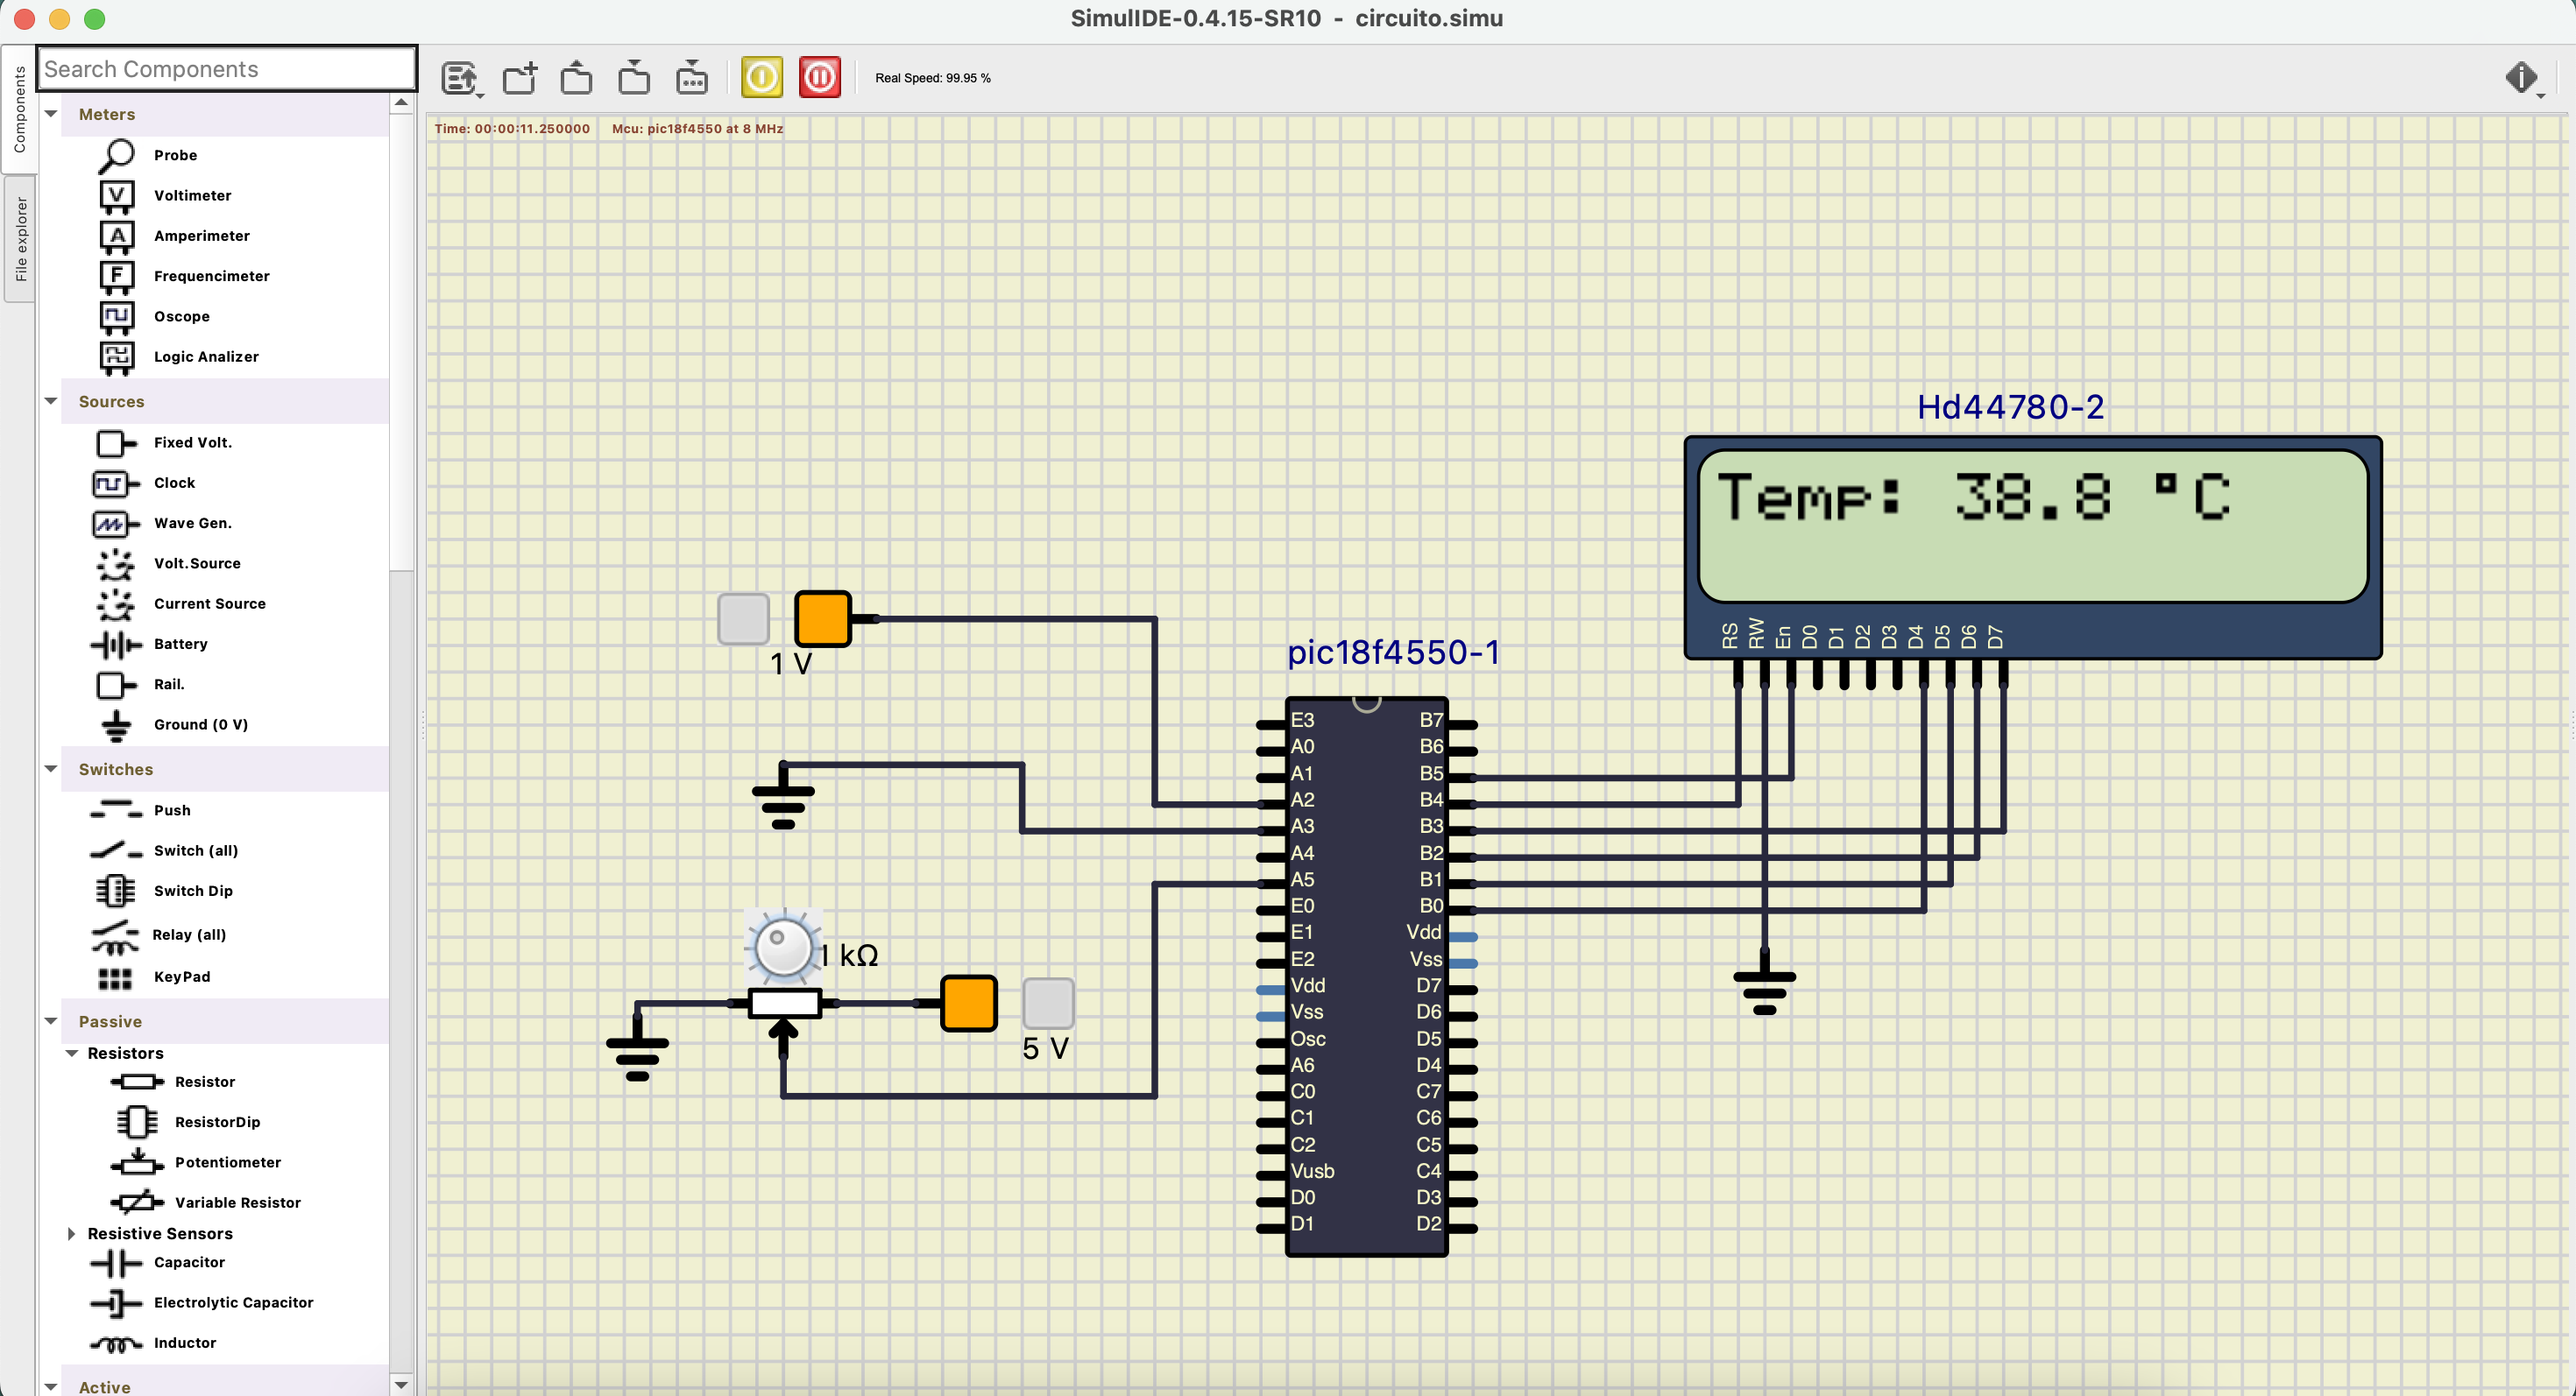
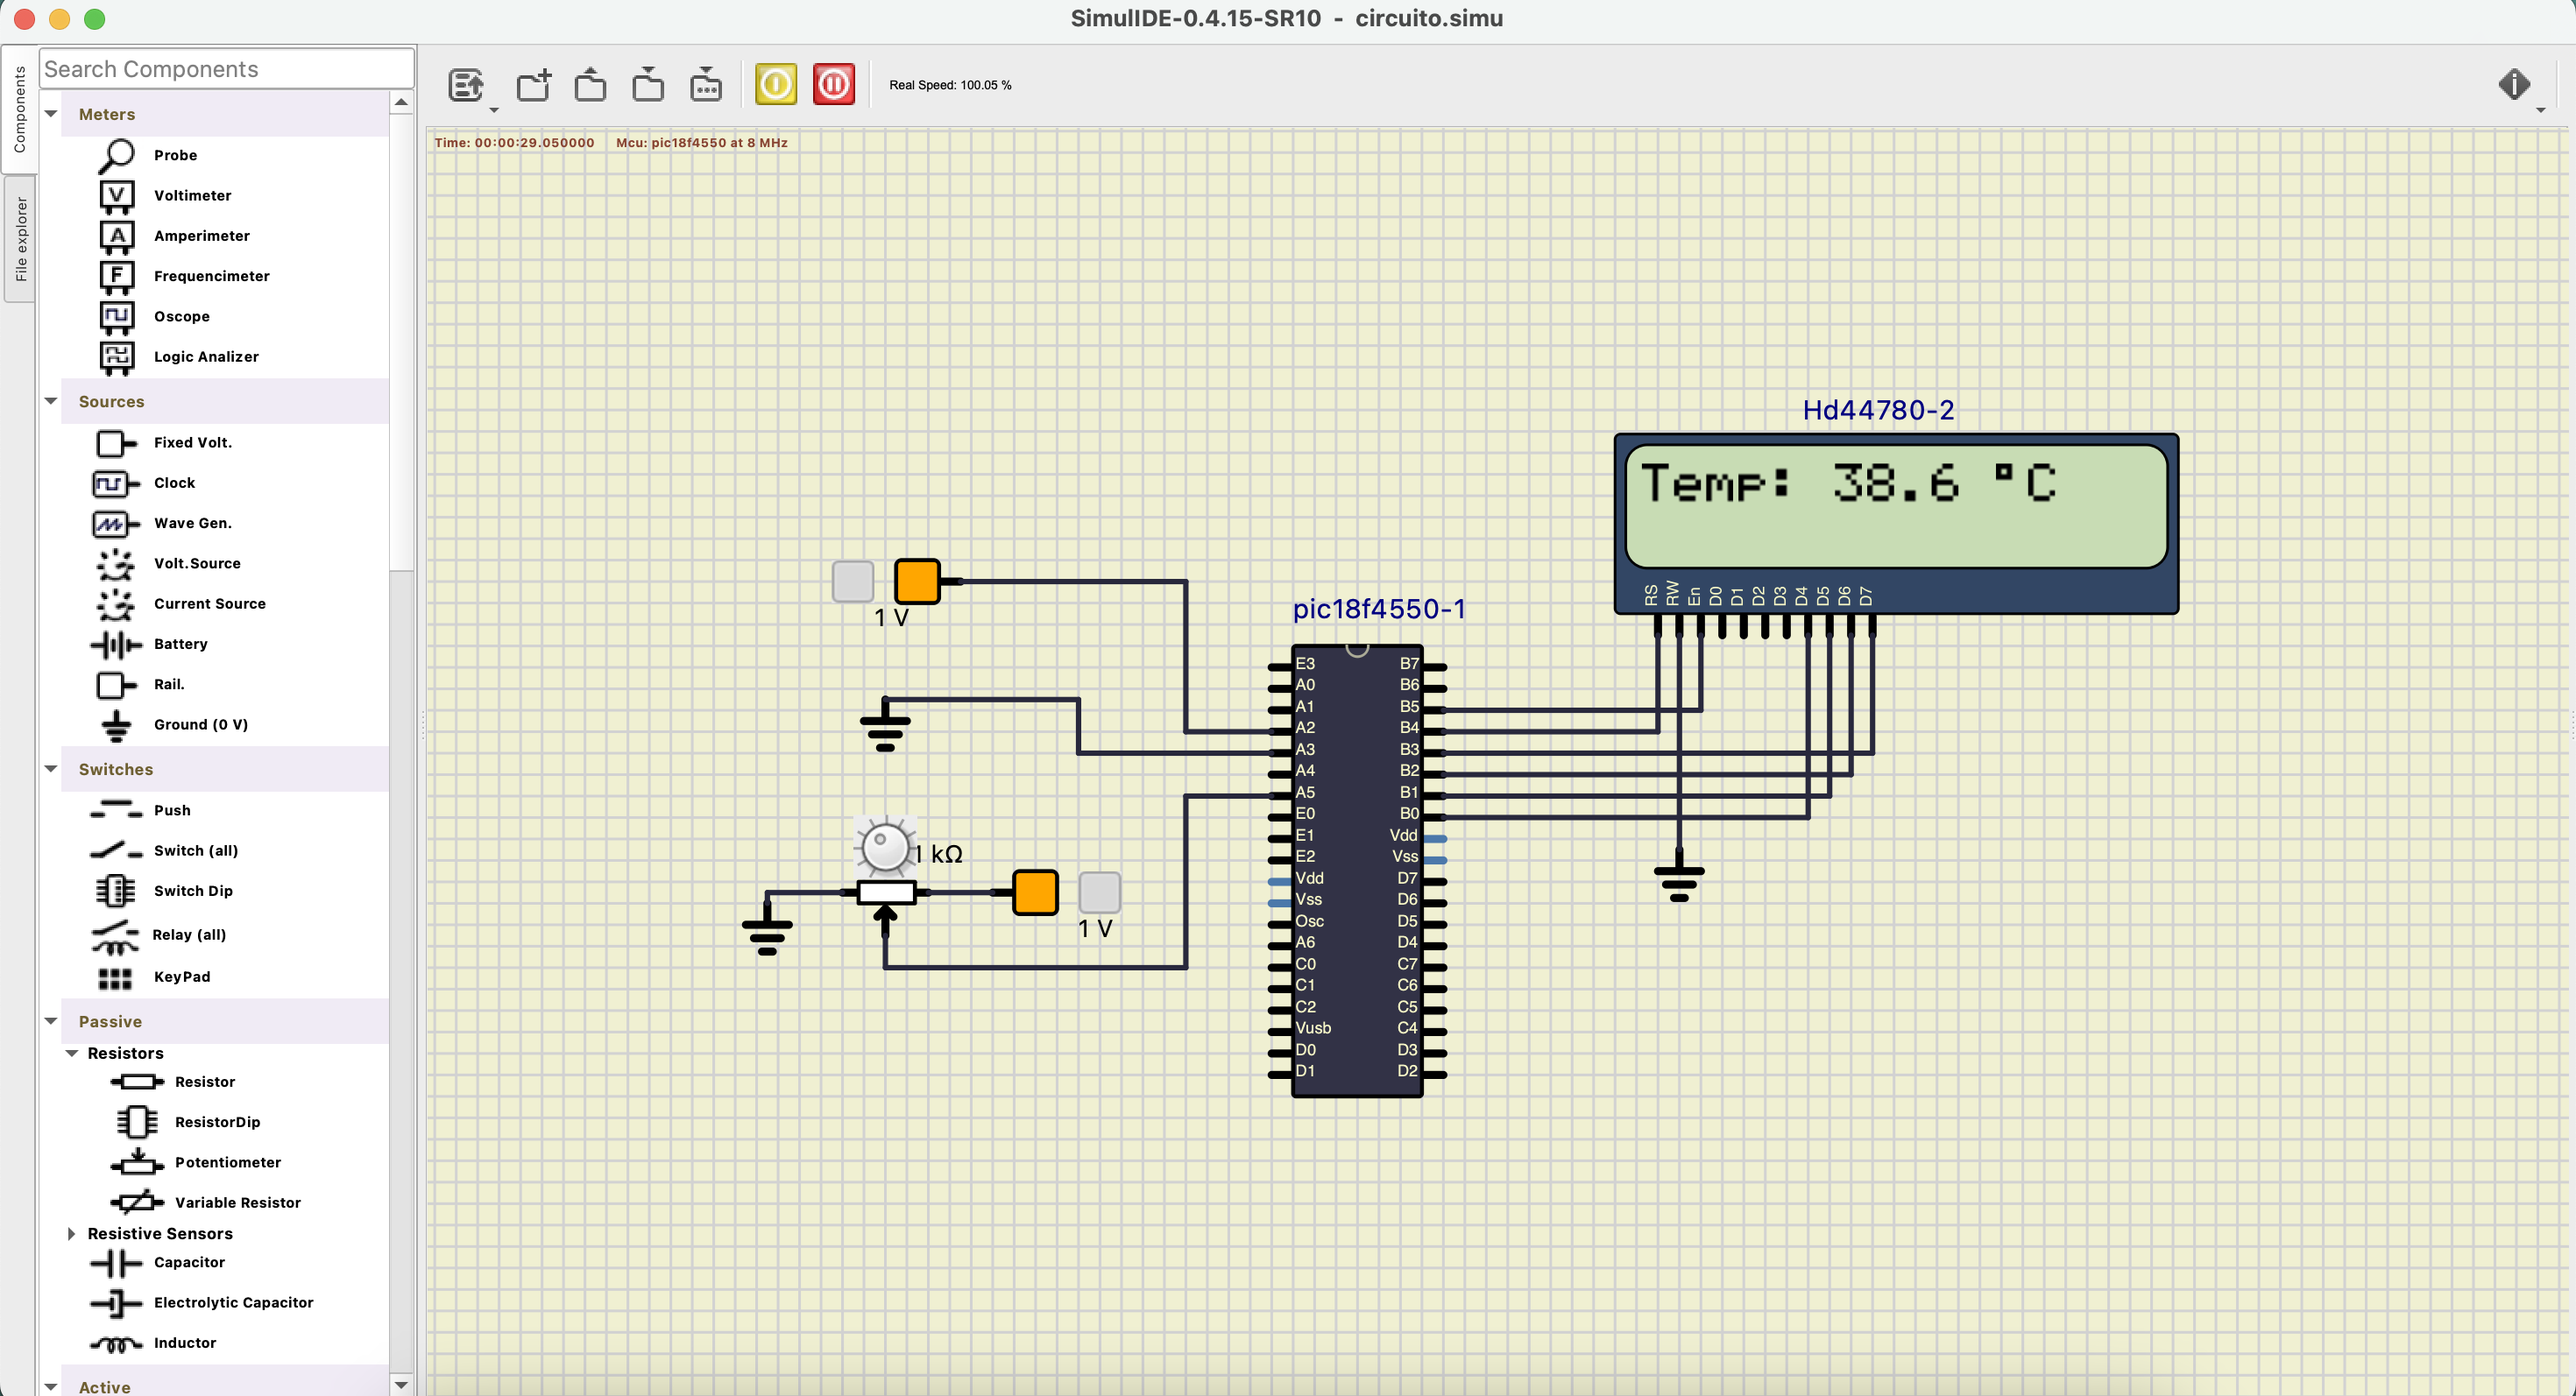
final

Changed region(s): [[0.1548, 0.0307, 1.0, 1.0]]

diff --git a/codigo/termometro.c b/codigo/termometro.c
@@ -47,7 +47,7 @@ void main()
 
         // Conversão do valor do ADC para temperatura (0 a 100 °C)
         // 1023 corresponde a 1V (100°C), então a relação é linear
-        temperatura = (Valor_ADC * 100.0) / 1023.0; // Conversão proporcional
+        temperatura = (Valor_ADC * 500.0) / 1023.0; // Conversão proporcional
 
         if (temperatura >= 100)
         {

diff --git a/README.md b/README.md
@@ -59,7 +59,7 @@ O projeto foi implementado com sucesso no SimulIDE, e os resultados atendem aos 
 ### Exemplos do Funcionamento:
 Aqui estão exemplos do funcionamento da simulação:
 
-1. Exibição da temperatura de 38,8°C:
+1. Exibição da temperatura de 38,6°C:
 
    <img src="imagens/2.png" width="600px">
 
